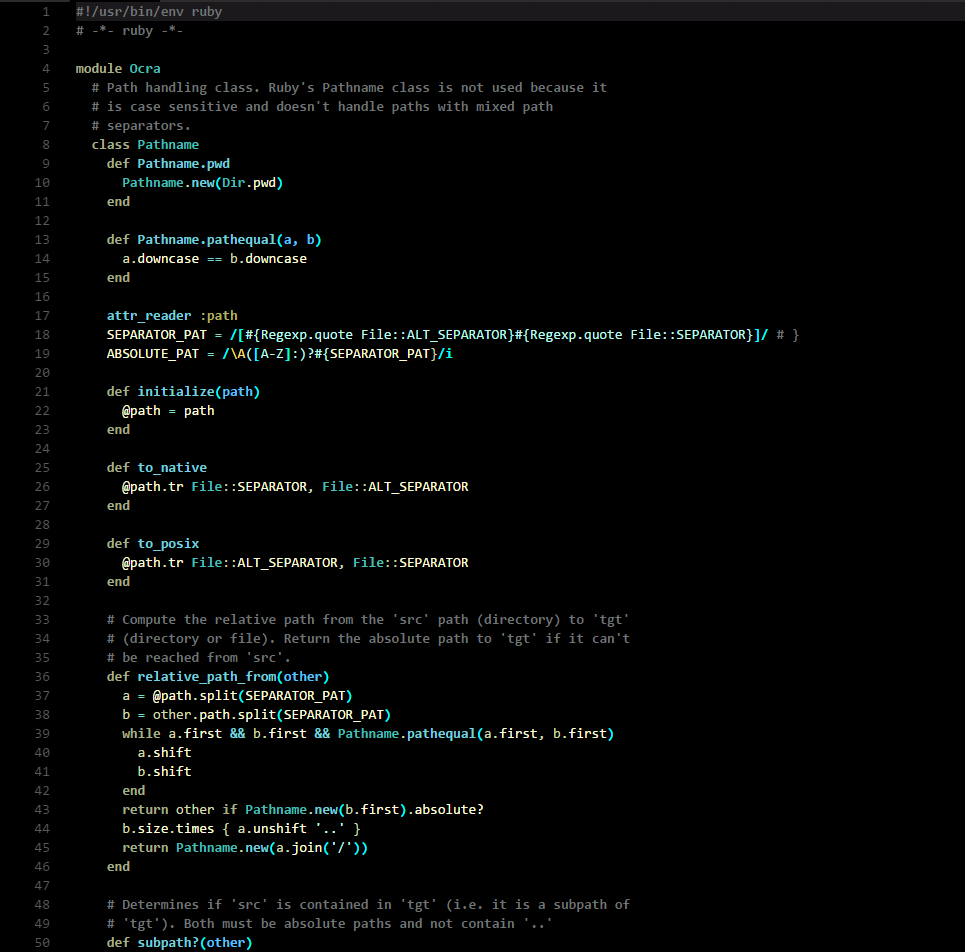
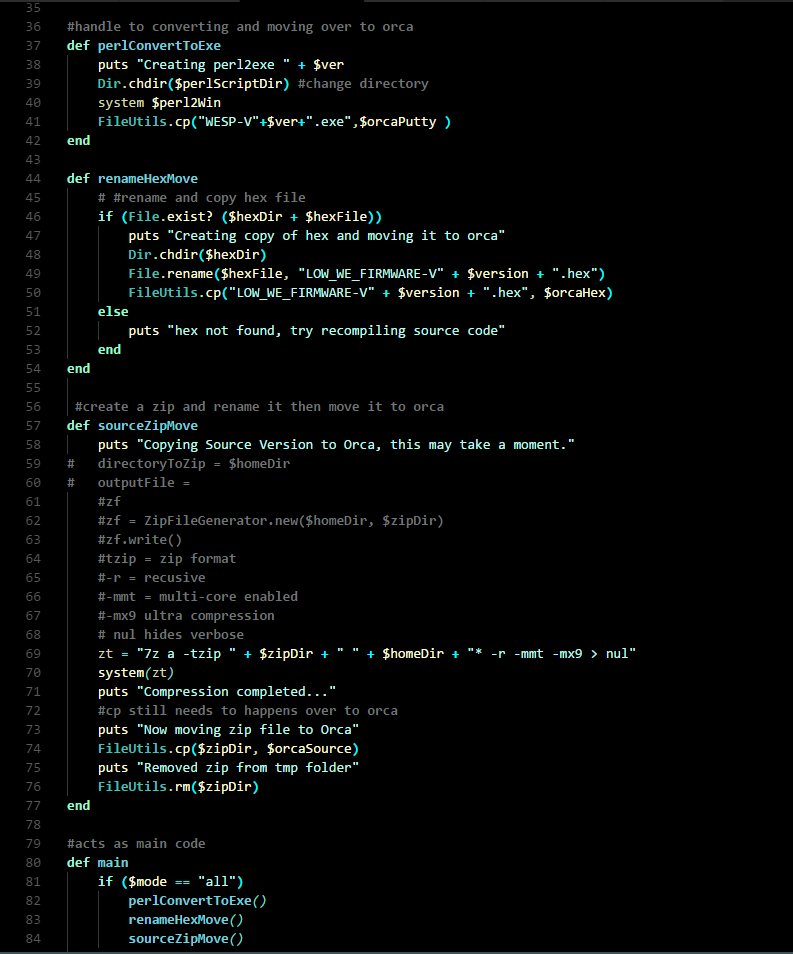
updated images and a few basic colors mainly for C but applies across the board.

Changed region(s): [[0.0303, 0.0, 1.0, 1.0], [0.575, 0.7616, 0.6356, 0.792], [0.4842, 0.5179, 0.5448, 0.5483]]

diff --git a/CHANGELOG.md b/CHANGELOG.md
@@ -23,3 +23,5 @@
 - Updated C language pictures and modified keyword.control
 ## 0.12
 - Additional adjustments to c language updated c language image.
+## 0.13
+- Updated all images regarding languages, made small tweaks to colors.
